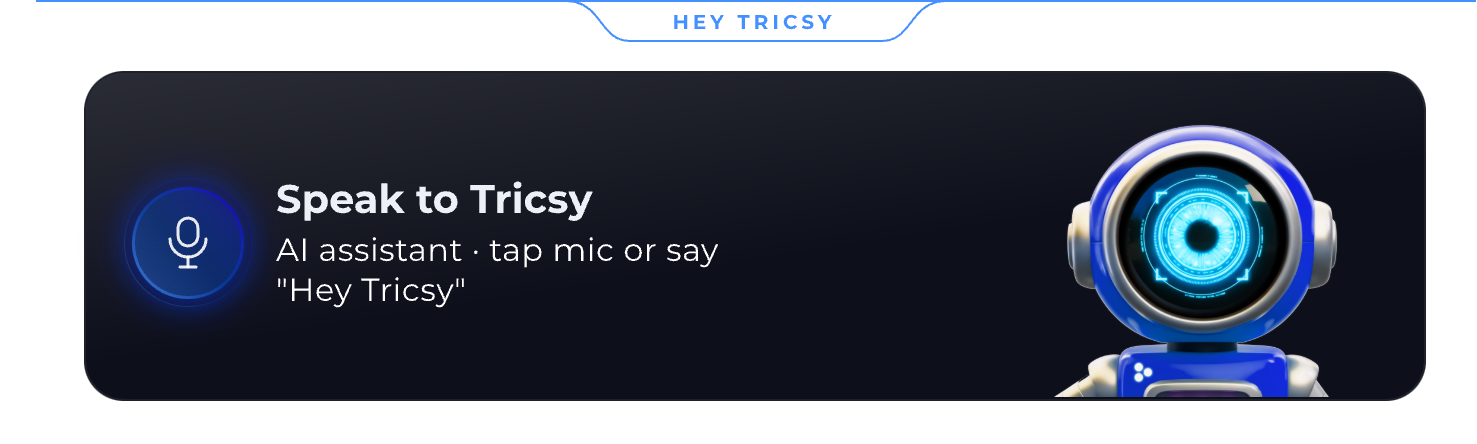
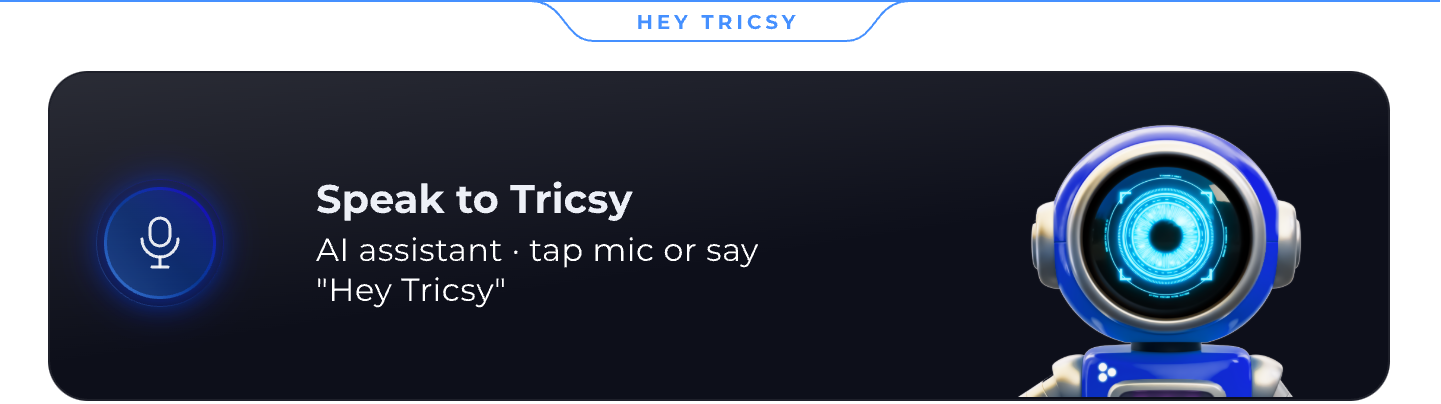
Update panel with inactive states and redesigned sections
- All tiles (lights/blinds/services) now in gray inactive state
- Recording section with gray inactive dot and waveform
- Tricsy slash fixed
- Status bar redesigned
- Thermostat removed, Environment expanded with Air Quality
- Clean HTML without cover overlays
- Re-exported all section assets from updated Pencil design

diff --git a/index.html b/index.html
@@ -15,36 +15,18 @@ body{
 }
 .panel{
   width:720px;background:#000;
-  display:flex;flex-direction:column;gap:16px;overflow:hidden;
+  display:flex;flex-direction:column;gap:18px;overflow:hidden;
 }
 .section{position:relative;width:720px;flex-shrink:0;}
 .section img{display:block;width:720px;height:auto;}
 
-/* Cover rectangles - hide original image content */
-.cover{position:absolute;z-index:3;background:#000;}
-.cover-card{position:absolute;z-index:3;} /* colored covers */
-.cover-tile{position:absolute;z-index:3;background:#131826;border:1px solid rgba(255,255,255,0.07);border-radius:16px;}
-.cover-rec{position:absolute;z-index:3;background:#0d0f1a;}
-
-/* ── Status bar ── */
-.status-bar{position:relative;width:720px;height:62px;}
-.status-bar img{position:absolute;top:0;left:0;width:720px;height:62px;object-fit:cover;}
-.overlay-time{
-  position:absolute;left:25px;top:18px;
-  font-size:26px;font-weight:700;color:#edf0f7;
-  letter-spacing:1px;line-height:1;z-index:4;
+/* ── Hotspot ── */
+.hotspot{
+  position:absolute;cursor:pointer;z-index:5;border-radius:16px;
+  transition:background 0.15s;
 }
-.overlay-date{
-  position:absolute;left:50%;top:50%;transform:translate(-50%,-50%);
-  background:#1B00E2;border-radius:20px;padding:6px 18px;
-  font-size:10px;font-weight:700;letter-spacing:2px;color:#fff;
-  z-index:4;white-space:nowrap;
-}
-.overlay-indoor-temp{
-  position:absolute;right:29px;top:23px;
-  font-size:26px;font-weight:700;color:#fff;
-  text-align:center;line-height:0.85;z-index:4;
-}
+.hotspot:hover{background:rgba(255,255,255,0.04)}
+.hotspot:active{background:rgba(255,255,255,0.08)}
 
 /* ── Tile flash ── */
 .tile-flash{
@@ -56,41 +38,14 @@ body{
   box-shadow:0 0 20px rgba(27,0,226,0.3);
 }
 
-/* ── Hotspot (booking, thermostat) ── */
-.hotspot{
-  position:absolute;cursor:pointer;z-index:5;border-radius:16px;
-  transition:background 0.15s;
-}
-.hotspot:hover{background:rgba(255,255,255,0.04)}
-.hotspot:active{background:rgba(255,255,255,0.08)}
-
-/* ── Countdown ── */
-.countdown{
-  position:absolute;z-index:4;
-  font-size:38px;font-weight:700;color:#fff;
-  text-align:right;line-height:1;
-}
-
-/* ── Section slash divider (reusable SVG bracket) ── */
-.slash-overlay{
-  position:absolute;top:0;left:0;width:720px;height:20px;z-index:4;
-  display:flex;align-items:center;justify-content:center;
-}
-.slash-overlay::before{
-  content:'';position:absolute;left:0;right:0;top:50%;
-  height:1px;background:#4590FF;
-}
-.slash-overlay .slash-tab{
-  position:relative;background:#000;padding:0 0;
-}
-
-/* ── Recording ── */
+/* ── Recording overlays (appear on click) ── */
 .rec-dot{
   position:absolute;z-index:6;width:34px;height:34px;border-radius:50%;
   display:flex;align-items:center;justify-content:center;cursor:pointer;
 }
 .rec-dot-inner{
-  width:14px;height:14px;border-radius:50%;background:#555;transition:background 0.3s;
+  width:14px;height:14px;border-radius:50%;
+  background:transparent;transition:background 0.3s;
 }
 .rec-dot.active .rec-dot-inner{
   background:#DC2626;animation:pulse-rec 1.5s ease-in-out infinite;
@@ -99,43 +54,24 @@ body{
   0%,100%{box-shadow:0 0 0 0 rgba(220,38,38,0.5)}
   50%{box-shadow:0 0 8px 4px rgba(220,38,38,0.3)}
 }
-.rec-label{
-  position:absolute;z-index:6;
-  font-size:16px;font-weight:600;color:#ffffff88;letter-spacing:1.5px;
-}
-.rec-label.active{color:#FFFFFFDD;}
 .rec-timer{
   position:absolute;z-index:6;
-  font-size:16px;font-weight:600;color:#555;letter-spacing:0.52px;
+  font-size:16px;font-weight:600;color:#de3232;
+  letter-spacing:0.52px;opacity:0;transition:opacity 0.3s;
 }
-.rec-timer.active{color:#de3232;}
+.rec-timer.active{opacity:1}
 .rec-waveform{
   position:absolute;z-index:5;
   display:flex;align-items:center;gap:2.5px;overflow:hidden;
+  opacity:0;transition:opacity 0.3s;
 }
+.rec-waveform.active{opacity:1}
 .rec-waveform span{
-  width:3px;border-radius:2px;background:#333;
-  transition:background 0.3s;
-}
-.rec-waveform.active span{
-  background:#4590FFCC;animation:wave 1.2s ease-in-out infinite;
+  width:3px;border-radius:2px;background:#4590FFCC;
+  animation:wave 1.2s ease-in-out infinite;
 }
 @keyframes wave{
   0%,100%{transform:scaleY(0.3)}50%{transform:scaleY(1)}
-}
-.rec-stop{
-  position:absolute;z-index:6;width:34px;height:34px;border-radius:10px;
-  background:rgba(255,255,255,0.08);border:1px solid rgba(255,255,255,0.1);
-  cursor:pointer;display:flex;align-items:center;justify-content:center;
-}
-.rec-stop::after{
-  content:'';width:11px;height:11px;border-radius:2px;background:rgba(255,255,255,0.7);
-}
-.rec-stop:hover{background:rgba(255,255,255,0.14);}
-
-/* ── Thermostat ── */
-.overlay-thermo{
-  position:absolute;font-size:28px;font-weight:700;color:#fff;z-index:4;
 }
 
 /* ── Toast ── */
@@ -157,15 +93,8 @@ body{
 <div class="panel">
 
   <!-- ═══ STATUS BAR ═══ -->
-  <div class="status-bar">
-    <img src="occupy-assets/r9Fnl.png" alt="">
-    <!-- Cover original "9:53" and "22°C" text in the image -->
-    <div class="cover" style="left:20px;top:16px;width:90px;height:34px;"></div>
-    <div class="cover" style="right:20px;top:16px;width:80px;height:34px;"></div>
-    <!-- Live overlays -->
-    <div class="overlay-time" id="clock">9 : 53</div>
-    <div class="overlay-date" id="dateDisplay">Friday, March 06, 2026</div>
-    <div class="overlay-indoor-temp" id="indoorTemp">22°C</div>
+  <div class="section" style="height:62px;">
+    <img src="occupy-assets/r9Fnl.png" alt="" style="height:62px;">
   </div>
 
   <!-- ═══ ROOM NAME ═══ -->
@@ -174,10 +103,6 @@ body{
   <!-- ═══ OCCUPIED CARD ═══ -->
   <div class="section" style="height:505px;">
     <img src="occupy-assets/sfsC5.png" alt="" style="height:505px;">
-    <!-- Cover original "60min." text, show countdown -->
-    <div class="cover-card" style="right:48px;top:24px;width:160px;height:48px;background:linear-gradient(135deg,#d42020,#c41e1e);border-radius:4px;"></div>
-    <div class="countdown" id="countdown" style="right:55px;top:28px;width:145px;">60:00</div>
-    <!-- Booking buttons -->
     <div class="hotspot" data-action="book" data-min="15" style="left:231px;top:396px;width:138px;height:47px;border-radius:65px;"></div>
     <div class="hotspot" data-action="book" data-min="30" style="left:381px;top:396px;width:137px;height:47px;border-radius:65px;"></div>
     <div class="hotspot" data-action="book" data-min="60" style="left:530px;top:396px;width:138px;height:47px;border-radius:65px;"></div>
@@ -186,9 +111,6 @@ body{
   <!-- ═══ LIGHTS ═══ -->
   <div class="section" style="height:173px;">
     <img src="occupy-assets/W56aF.png" alt="">
-    <!-- Cover the active (blue) tile at index 1 to make it look inactive -->
-    <div class="cover-tile" style="left:160px;top:32px;width:126px;height:117px;"></div>
-    <!-- Flash hotspots on all tiles -->
     <div class="tile-flash" data-group="lights" data-idx="0" style="left:24px;top:32px;width:126px;height:117px;"></div>
     <div class="tile-flash" data-group="lights" data-idx="1" style="left:160px;top:32px;width:126px;height:117px;"></div>
     <div class="tile-flash" data-group="lights" data-idx="2" style="left:297px;top:32px;width:126px;height:117px;"></div>
@@ -197,11 +119,8 @@ body{
   </div>
 
   <!-- ═══ BLINDS ═══ -->
-  <div class="section" style="height:209px;">
+  <div class="section" style="height:208px;">
     <img src="occupy-assets/UCkPe.png" alt="">
-    <!-- Cover the active (blue) tile at index 0 -->
-    <div class="cover-tile" style="left:24px;top:36px;width:159px;height:146px;"></div>
-    <!-- Flash hotspots -->
     <div class="tile-flash" data-group="blinds" data-idx="0" style="left:24px;top:36px;width:159px;height:146px;"></div>
     <div class="tile-flash" data-group="blinds" data-idx="1" style="left:195px;top:36px;width:159px;height:146px;"></div>
     <div class="tile-flash" data-group="blinds" data-idx="2" style="left:366px;top:36px;width:159px;height:146px;"></div>
@@ -211,40 +130,25 @@ body{
   <!-- ═══ HEY TRICSY ═══ -->
   <div class="section" style="height:200px;">
     <img src="occupy-assets/yZm7M.png" alt="">
-    <!-- Cover the original slash and replace with proper one matching other sections -->
-    <div class="cover" style="left:0;top:0;width:720px;height:22px;"></div>
-    <div class="slash-overlay">
-      <div class="slash-tab">
-        <svg width="189" height="20" viewBox="0 0 189 20" fill="none" xmlns="http://www.w3.org/2000/svg">
-          <path d="M0 10 L55 10 L65 1 L124 1 L134 10 L189 10" stroke="#4590FF" stroke-width="1" fill="none"/>
-          <text x="94.5" y="10" text-anchor="middle" fill="#4590FF" font-family="Montserrat,sans-serif" font-size="10" font-weight="700" letter-spacing="2" dominant-baseline="middle">HEY TRICSY</text>
-        </svg>
-      </div>
-    </div>
     <div class="hotspot" data-action="tricsy" style="left:48px;top:75px;width:56px;height:56px;border-radius:28px;"></div>
   </div>
 
   <!-- ═══ RECORDING ═══ -->
   <div class="section" style="height:94px;">
     <img src="occupy-assets/4qBsr.png" alt="">
-    <!-- Cover the entire recording bar content (dot, text, timer, waveform, buttons) -->
-    <div class="cover-rec" style="left:25px;top:35px;width:669px;height:58px;border-radius:20px;"></div>
-    <!-- Rebuild recording UI from scratch on top -->
-    <div class="rec-dot" id="recDot" style="left:57px;top:47px;">
+    <!-- Dot: transparent by default, red pulsing when active -->
+    <div class="rec-dot" id="recDot" style="left:56px;top:47px;">
       <div class="rec-dot-inner"></div>
     </div>
-    <div class="rec-label" id="recLabel" style="left:100px;top:51px;">Recording</div>
-    <div class="rec-timer" id="recTime" style="left:228px;top:51px;">00:00</div>
-    <div class="rec-waveform" id="recWaveform" style="left:300px;top:44px;width:280px;height:28px;"></div>
-    <div class="rec-stop" id="recStop" style="left:650px;top:47px;"></div>
+    <!-- Timer: hidden by default, appears red on top of image "19:34" -->
+    <div class="rec-timer" id="recTime" style="left:239px;top:54px;">00:00</div>
+    <!-- Waveform: hidden by default, blue animated on top of image gray bars -->
+    <div class="rec-waveform" id="recWaveform" style="left:307px;top:50px;width:267px;height:28px;"></div>
   </div>
 
   <!-- ═══ SERVICES ═══ -->
   <div class="section" style="height:203px;">
     <img src="occupy-assets/PIqES.png" alt="">
-    <!-- Cover the active (blue) tile at index 2 -->
-    <div class="cover-tile" style="left:365px;top:35px;width:159px;height:146px;"></div>
-    <!-- Flash hotspots -->
     <div class="tile-flash" data-group="services" data-idx="0" style="left:24px;top:35px;width:159px;height:146px;"></div>
     <div class="tile-flash" data-group="services" data-idx="1" style="left:195px;top:35px;width:159px;height:146px;"></div>
     <div class="tile-flash" data-group="services" data-idx="2" style="left:365px;top:35px;width:159px;height:146px;"></div>
@@ -252,22 +156,7 @@ body{
   </div>
 
   <!-- ═══ ENVIRONMENT ═══ -->
-  <div class="section" style="height:128px;">
-    <img src="occupy-assets/r9Zk9.png" alt="">
-  </div>
-
-  <!-- ═══ THERMOSTAT ═══ -->
-  <div class="section" style="height:161px;">
-    <img src="occupy-assets/HH0X0.png" alt="">
-    <!-- Cover original temp text -->
-    <div class="cover-rec" style="left:44px;top:55px;width:70px;height:36px;"></div>
-    <div class="overlay-thermo" id="thermoTemp" style="left:44px;top:56px;">22°C</div>
-    <div class="hotspot" data-action="thermo-minus" style="left:596px;top:55px;width:36px;height:36px;border-radius:10px;"></div>
-    <div class="hotspot" data-action="thermo-plus" style="left:640px;top:55px;width:36px;height:36px;border-radius:10px;"></div>
-    <div class="hotspot" data-group="thermo-mode" data-idx="0" style="left:44px;top:105px;width:205px;height:36px;border-radius:10px;"></div>
-    <div class="hotspot" data-group="thermo-mode" data-idx="1" style="left:257px;top:105px;width:205px;height:36px;border-radius:10px;"></div>
-    <div class="hotspot" data-group="thermo-mode" data-idx="2" style="left:471px;top:105px;width:205px;height:36px;border-radius:10px;"></div>
-  </div>
+  <div class="section"><img src="occupy-assets/r9Zk9.png" alt=""></div>
 
   <!-- ═══ WEATHER ═══ -->
   <div class="section"><img src="occupy-assets/ETRs6.png" alt=""></div>
@@ -279,19 +168,6 @@ body{
 <div class="toast" id="toast"></div>
 
 <script>
-// ── Live Clock ──
-function updateClock(){
-  const now=new Date();
-  document.getElementById('clock').textContent=
-    String(now.getHours()).padStart(2,'0')+' : '+String(now.getMinutes()).padStart(2,'0');
-  const days=['Sunday','Monday','Tuesday','Wednesday','Thursday','Friday','Saturday'];
-  const months=['January','February','March','April','May','June','July','August','September','October','November','December'];
-  document.getElementById('dateDisplay').textContent=
-    days[now.getDay()]+', '+months[now.getMonth()]+' '+String(now.getDate()).padStart(2,'0')+', '+now.getFullYear();
-}
-updateClock();
-setInterval(updateClock,1000);
-
 // ── Toast ──
 let toastTimer=null;
 function showToast(msg){
@@ -300,18 +176,6 @@ function showToast(msg){
   clearTimeout(toastTimer);
   toastTimer=setTimeout(()=>t.classList.remove('show'),2000);
 }
-
-// ── Countdown (minutes:seconds) ──
-let countdownTotal=60*60;
-function updateCountdown(){
-  const min=Math.floor(countdownTotal/60);
-  const sec=countdownTotal%60;
-  document.getElementById('countdown').textContent=
-    String(min).padStart(2,'0')+':'+String(sec).padStart(2,'0');
-  if(countdownTotal>0)countdownTotal--;
-}
-updateCountdown();
-setInterval(updateCountdown,1000);
 
 // ── Booking ──
 document.querySelectorAll('[data-action="book"]').forEach(el=>{
@@ -326,7 +190,7 @@ document.querySelectorAll('.tile-flash').forEach(el=>{
     el.classList.add('flash');
     setTimeout(()=>el.classList.remove('flash'),1000);
     const names={
-      lights:['Focus','Presentation','Presentation','Auto','Off'],
+      lights:['Focus','Meeting','Presentation','Auto','Off'],
       blinds:['Open','Closed','Auto','Partly open'],
       services:['ITO support','Reception call','Ordering','Cleaning needed']
     };
@@ -345,10 +209,9 @@ document.querySelector('[data-action="tricsy"]').addEventListener('click',()=>{
 // ── Recording ──
 let recSeconds=0,recActive=false,recInterval=null;
 
-// Generate static gray waveform bars
 (function(){
   const wf=document.getElementById('recWaveform');
-  for(let i=0;i<40;i++){
+  for(let i=0;i<38;i++){
     const bar=document.createElement('span');
     bar.style.height=(4+Math.random()*18)+'px';
     bar.style.animationDelay=(Math.random()*1.2).toFixed(2)+'s';
@@ -364,13 +227,11 @@ function updateRecTime(){
 
 document.getElementById('recDot').addEventListener('click',()=>{
   const dot=document.getElementById('recDot');
-  const label=document.getElementById('recLabel');
   const timer=document.getElementById('recTime');
   const wf=document.getElementById('recWaveform');
   if(!recActive){
     recActive=true;
     dot.classList.add('active');
-    label.classList.add('active');
     timer.classList.add('active');
     wf.classList.add('active');
     recInterval=setInterval(()=>{recSeconds++;updateRecTime();},1000);
@@ -382,35 +243,6 @@ document.getElementById('recDot').addEventListener('click',()=>{
     wf.classList.remove('active');
     showToast('Recording paused');
   }
-});
-
-document.getElementById('recStop').addEventListener('click',()=>{
-  clearInterval(recInterval);
-  recSeconds=0;recActive=false;updateRecTime();
-  document.getElementById('recDot').classList.remove('active');
-  document.getElementById('recLabel').classList.remove('active');
-  document.getElementById('recTime').classList.remove('active');
-  document.getElementById('recWaveform').classList.remove('active');
-  showToast('Recording stopped');
-});
-
-// ── Thermostat ──
-let thermoValue=22;
-function updateThermo(){
-  document.getElementById('thermoTemp').textContent=thermoValue+'°C';
-  document.getElementById('indoorTemp').textContent=thermoValue+'°C';
-}
-document.querySelector('[data-action="thermo-minus"]').addEventListener('click',()=>{
-  thermoValue=Math.max(16,thermoValue-1);updateThermo();
-});
-document.querySelector('[data-action="thermo-plus"]').addEventListener('click',()=>{
-  thermoValue=Math.min(30,thermoValue+1);updateThermo();
-});
-document.querySelectorAll('[data-group="thermo-mode"]').forEach(el=>{
-  el.addEventListener('click',()=>{
-    const names=['Cool','Heat','Auto'];
-    showToast('Thermostat: '+names[parseInt(el.dataset.idx)]);
-  });
 });
 </script>
 </body>
